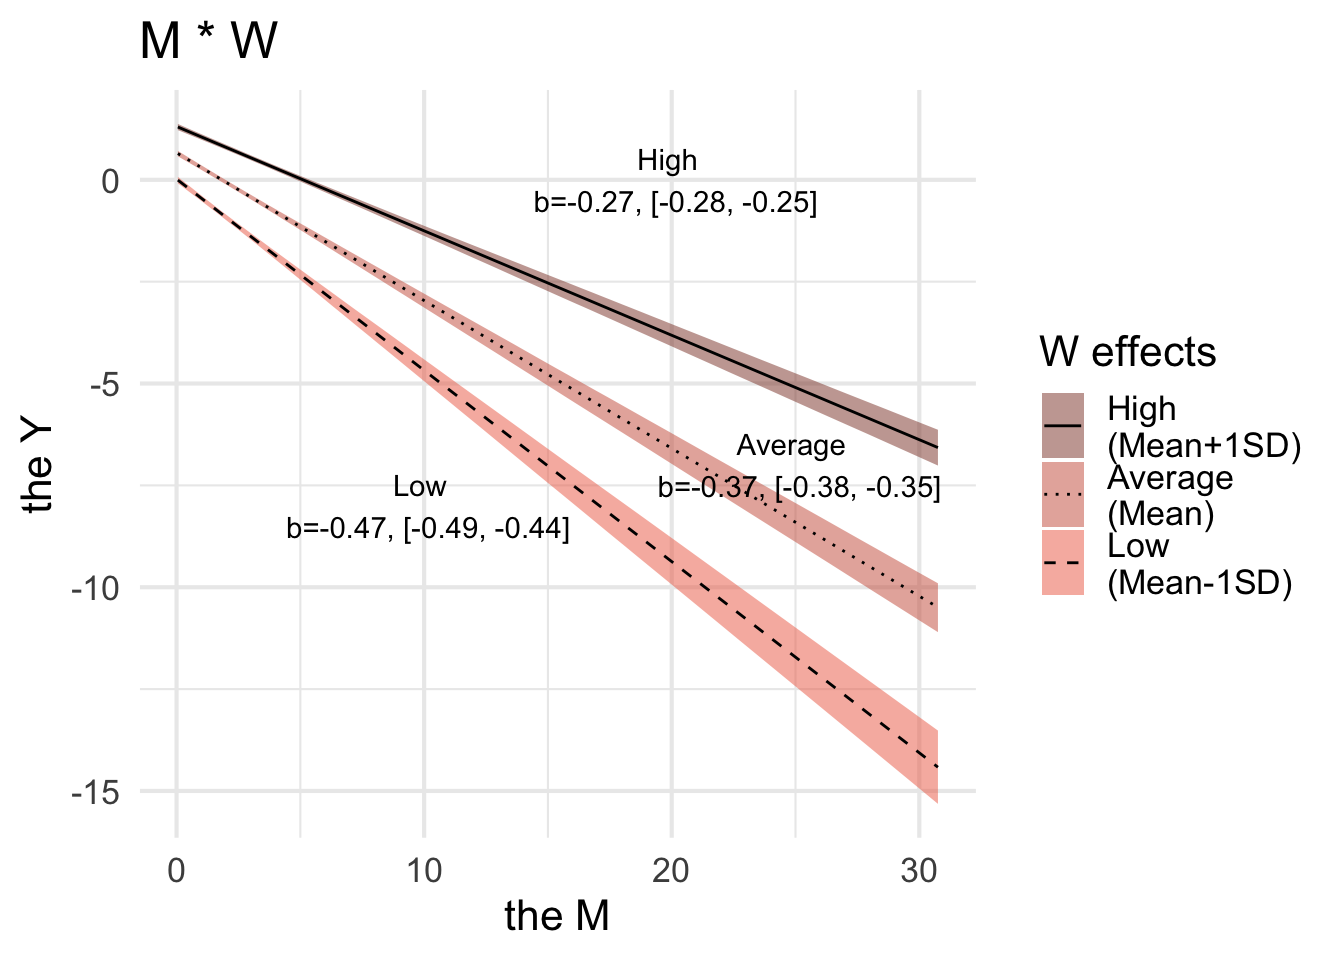
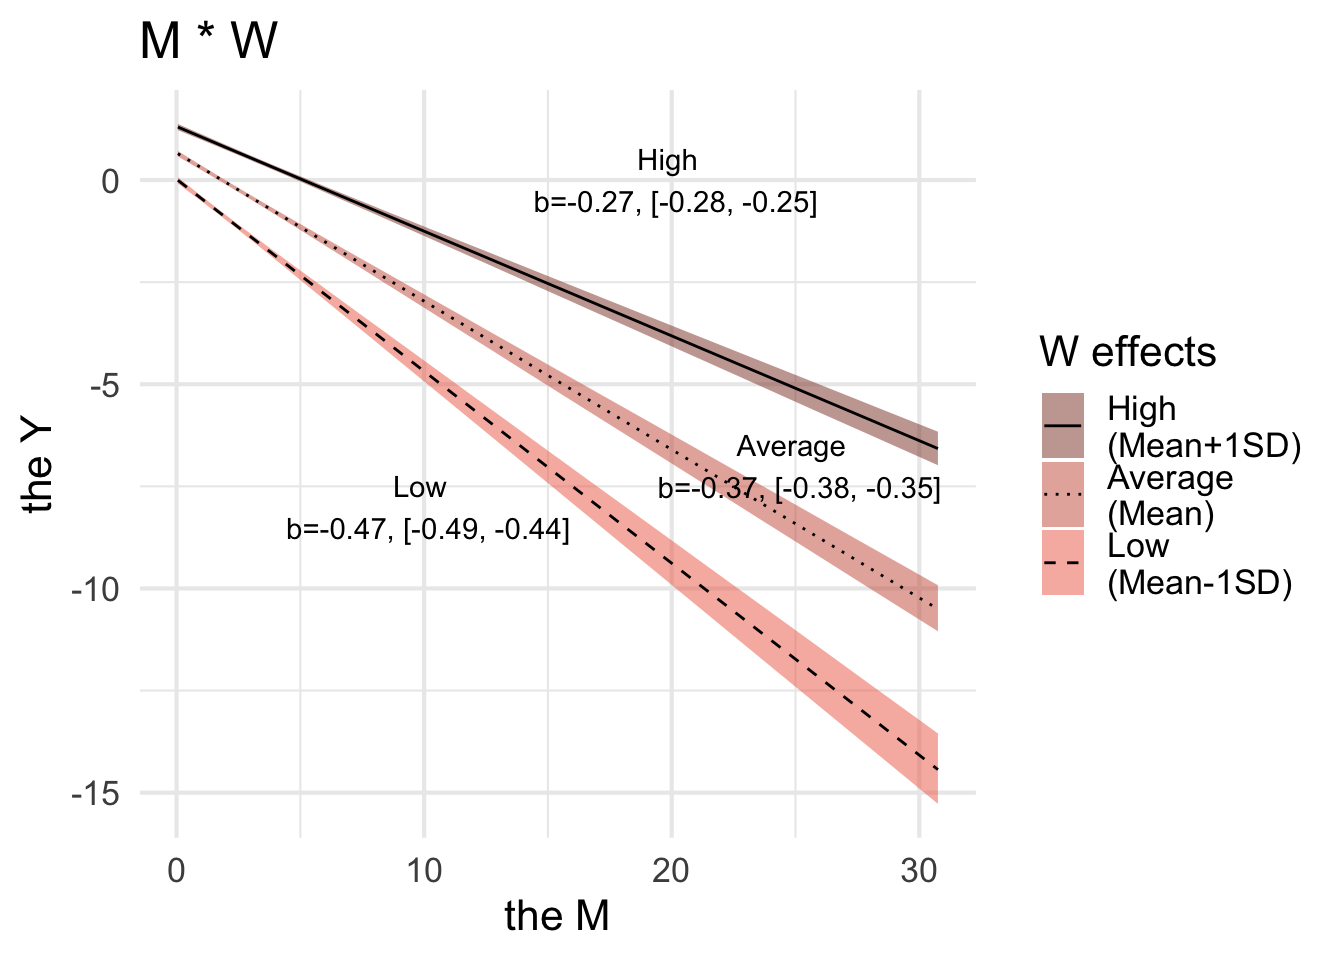
0322

diff --git a/docs/posts/note0322.html b/docs/posts/note0322.html
@@ -258,7 +258,7 @@ Y \\ X \\M \\W
 1 &amp; 0.1 &amp; -0.8 &amp; 0.8  \\
 0.1 &amp; 1 &amp; -0.6 &amp; 0\\
 -0.8 &amp; -0.6 &amp; 1 &amp; 0.6\\
-0.8 &amp; 0.6 &amp; 0 &amp; 1
+0.8 &amp; 0 &amp; 0.6 &amp; 1
 \end{bmatrix}
 \right)
 \end{equation}\]</span></p>
@@ -359,18 +359,18 @@ Formula: Y ~ X + M + W + M * W
 
 Population-Level Effects: 
             Estimate Est.Error l-95% CI u-95% CI  Rhat Bulk_ESS Tail_ESS
-Y_Intercept    0.647     0.035    0.579    0.713 1.001     3627     3025
-M_Intercept    0.490     0.043    0.405    0.575 1.002     4437     2572
-Y_XTRUE       -0.164     0.039   -0.241   -0.089 1.000     4362     2630
-Y_M           -0.366     0.011   -0.387   -0.345 1.000     3287     3126
-Y_W            0.604     0.020    0.566    0.644 1.001     3859     3037
-Y_M:W          0.100     0.006    0.087    0.112 1.001     3043     2718
-M_XTRUE       -0.856     0.062   -0.983   -0.737 1.001     4578     2425
+Y_Intercept    0.648     0.034    0.580    0.714 1.001     3884     3206
+M_Intercept    0.489     0.043    0.405    0.576 1.000     4405     2509
+Y_XTRUE       -0.164     0.037   -0.237   -0.089 1.000     4565     3114
+Y_M           -0.366     0.010   -0.385   -0.345 1.002     3451     3006
+Y_W            0.605     0.019    0.567    0.642 1.001     4067     2995
+Y_M:W          0.100     0.006    0.088    0.112 1.002     3095     3208
+M_XTRUE       -0.857     0.061   -0.978   -0.734 1.000     4898     2554
 
 Family Specific Parameters: 
         Estimate Est.Error l-95% CI u-95% CI  Rhat Bulk_ESS Tail_ESS
-sigma_Y    0.570     0.013    0.545    0.595 1.001     5210     3214
-sigma_M    0.962     0.021    0.921    1.006 1.001     5212     3041
+sigma_Y    0.570     0.013    0.545    0.595 1.000     6063     3219
+sigma_M    0.962     0.021    0.921    1.005 1.000     6107     3212
 
 Draws were sampled using sampling(NUTS). For each parameter, Bulk_ESS
 and Tail_ESS are effective sample size measures, and Rhat is the potential
@@ -400,30 +400,30 @@ scale reduction factor on split chains (at convergence, Rhat = 1).</code></pre>
 
 Parameter   | Response | Median |  Mean |   MAP |         95% CI |   pd |  Rhat |     ESS
 -----------------------------------------------------------------------------------------
-(Intercept) |        M |   0.49 |  0.49 |  0.48 | [ 0.40,  0.57] | 100% | 1.000 | 4416.00
-XTRUE       |        M |  -0.86 | -0.86 | -0.85 | [-0.98, -0.74] | 100% | 1.000 | 4528.00
+(Intercept) |        M |   0.49 |  0.49 |  0.49 | [ 0.41,  0.58] | 100% | 1.000 | 4369.00
+XTRUE       |        M |  -0.86 | -0.86 | -0.87 | [-0.98, -0.73] | 100% | 1.000 | 4838.00
 
 # Fixed effects sigma M
 
 Parameter | Response | Median | Mean |  MAP |         95% CI |   pd |  Rhat |     ESS
 -------------------------------------------------------------------------------------
-sigma     |        M |   0.96 | 0.96 | 0.96 | [ 0.92,  1.01] | 100% | 0.999 | 5070.00
+sigma     |        M |   0.96 | 0.96 | 0.96 | [ 0.92,  1.00] | 100% | 1.000 | 6057.00
 
 # Fixed effects Y
 
 Parameter   | Response | Median |  Mean |   MAP |         95% CI |   pd |  Rhat |     ESS
 -----------------------------------------------------------------------------------------
-(Intercept) |        Y |   0.65 |  0.65 |  0.66 | [ 0.58,  0.71] | 100% | 1.000 | 3579.00
-XTRUE       |        Y |  -0.16 | -0.16 | -0.16 | [-0.24, -0.09] | 100% | 1.000 | 4349.00
-M           |        Y |  -0.37 | -0.37 | -0.36 | [-0.39, -0.34] | 100% | 1.000 | 3257.00
-W           |        Y |   0.60 |  0.60 |  0.60 | [ 0.57,  0.64] | 100% | 1.000 | 3847.00
-M:W         |        Y |   0.10 |  0.10 |  0.10 | [ 0.09,  0.11] | 100% | 1.000 | 3018.00
+(Intercept) |        Y |   0.65 |  0.65 |  0.65 | [ 0.58,  0.71] | 100% | 1.001 | 3824.00
+XTRUE       |        Y |  -0.16 | -0.16 | -0.16 | [-0.24, -0.09] | 100% | 1.000 | 4552.00
+M           |        Y |  -0.37 | -0.37 | -0.37 | [-0.39, -0.35] | 100% | 1.000 | 3427.00
+W           |        Y |   0.60 |  0.60 |  0.60 | [ 0.57,  0.64] | 100% | 1.000 | 4040.00
+M:W         |        Y |   0.10 |  0.10 |  0.10 | [ 0.09,  0.11] | 100% | 0.999 | 3072.00
 
 # Fixed effects sigma Y
 
 Parameter | Response | Median | Mean |  MAP |         95% CI |   pd |  Rhat |     ESS
 -------------------------------------------------------------------------------------
-sigma     |        Y |   0.57 | 0.57 | 0.57 | [ 0.55,  0.60] | 100% | 1.001 | 5065.00</code></pre>
+sigma     |        Y |   0.57 | 0.57 | 0.57 | [ 0.55,  0.60] | 100% | 1.000 | 5961.00</code></pre>
 </div>
 </div>
 <p>The function <code>hypothesis()</code> can be used to test specific parameter.</p>
@@ -445,8 +445,8 @@ sigma     |        Y |   0.57 | 0.57 | 0.57 | [ 0.55,  0.60] | 100% | 1.001 | 50
 <div class="cell-output cell-output-stdout">
 <pre><code>Hypothesis Tests for class b:
   Hypothesis Estimate Est.Error CI.Lower CI.Upper Evid.Ratio Post.Prob Star
-1        Low    -0.47      0.02    -0.50    -0.44         NA        NA    *
-2     Medium    -0.37      0.01    -0.39    -0.34         NA        NA    *
+1        Low    -0.47      0.01    -0.49    -0.44         NA        NA    *
+2     Medium    -0.37      0.01    -0.39    -0.35         NA        NA    *
 3       High    -0.27      0.01    -0.28    -0.25         NA        NA    *
 ---
 'CI': 90%-CI for one-sided and 95%-CI for two-sided hypotheses.

diff --git a/docs/notes.html b/docs/notes.html
@@ -261,7 +261,7 @@ Reading Time
 <span class="listing-reading-time">3 min</span>
 </td>
 </tr>
-<tr data-index="1" data-categories="brms,Bayesian" data-listing-date-sort="1711036800000" data-listing-file-modified-sort="1711134711918" data-listing-date-modified-sort="NaN" data-listing-reading-time-sort="4" data-listing-word-count-sort="711" data-listing-title-sort="How to conduct simple slope analysis and make plot with `brms`" data-listing-filename-sort="note0322.qmd">
+<tr data-index="1" data-categories="brms,Bayesian" data-listing-date-sort="1711036800000" data-listing-file-modified-sort="1711134983739" data-listing-date-modified-sort="NaN" data-listing-reading-time-sort="4" data-listing-word-count-sort="711" data-listing-title-sort="How to conduct simple slope analysis and make plot with `brms`" data-listing-filename-sort="note0322.qmd">
 <td>
 <span class="listing-image"><p class="card-img-top"><img src="posts/note0322_files/figure-html/unnamed-chunk-8-1.png" style="height: 40px;"  class="thumbnail-image card-img"/></p></span>
 </td>
